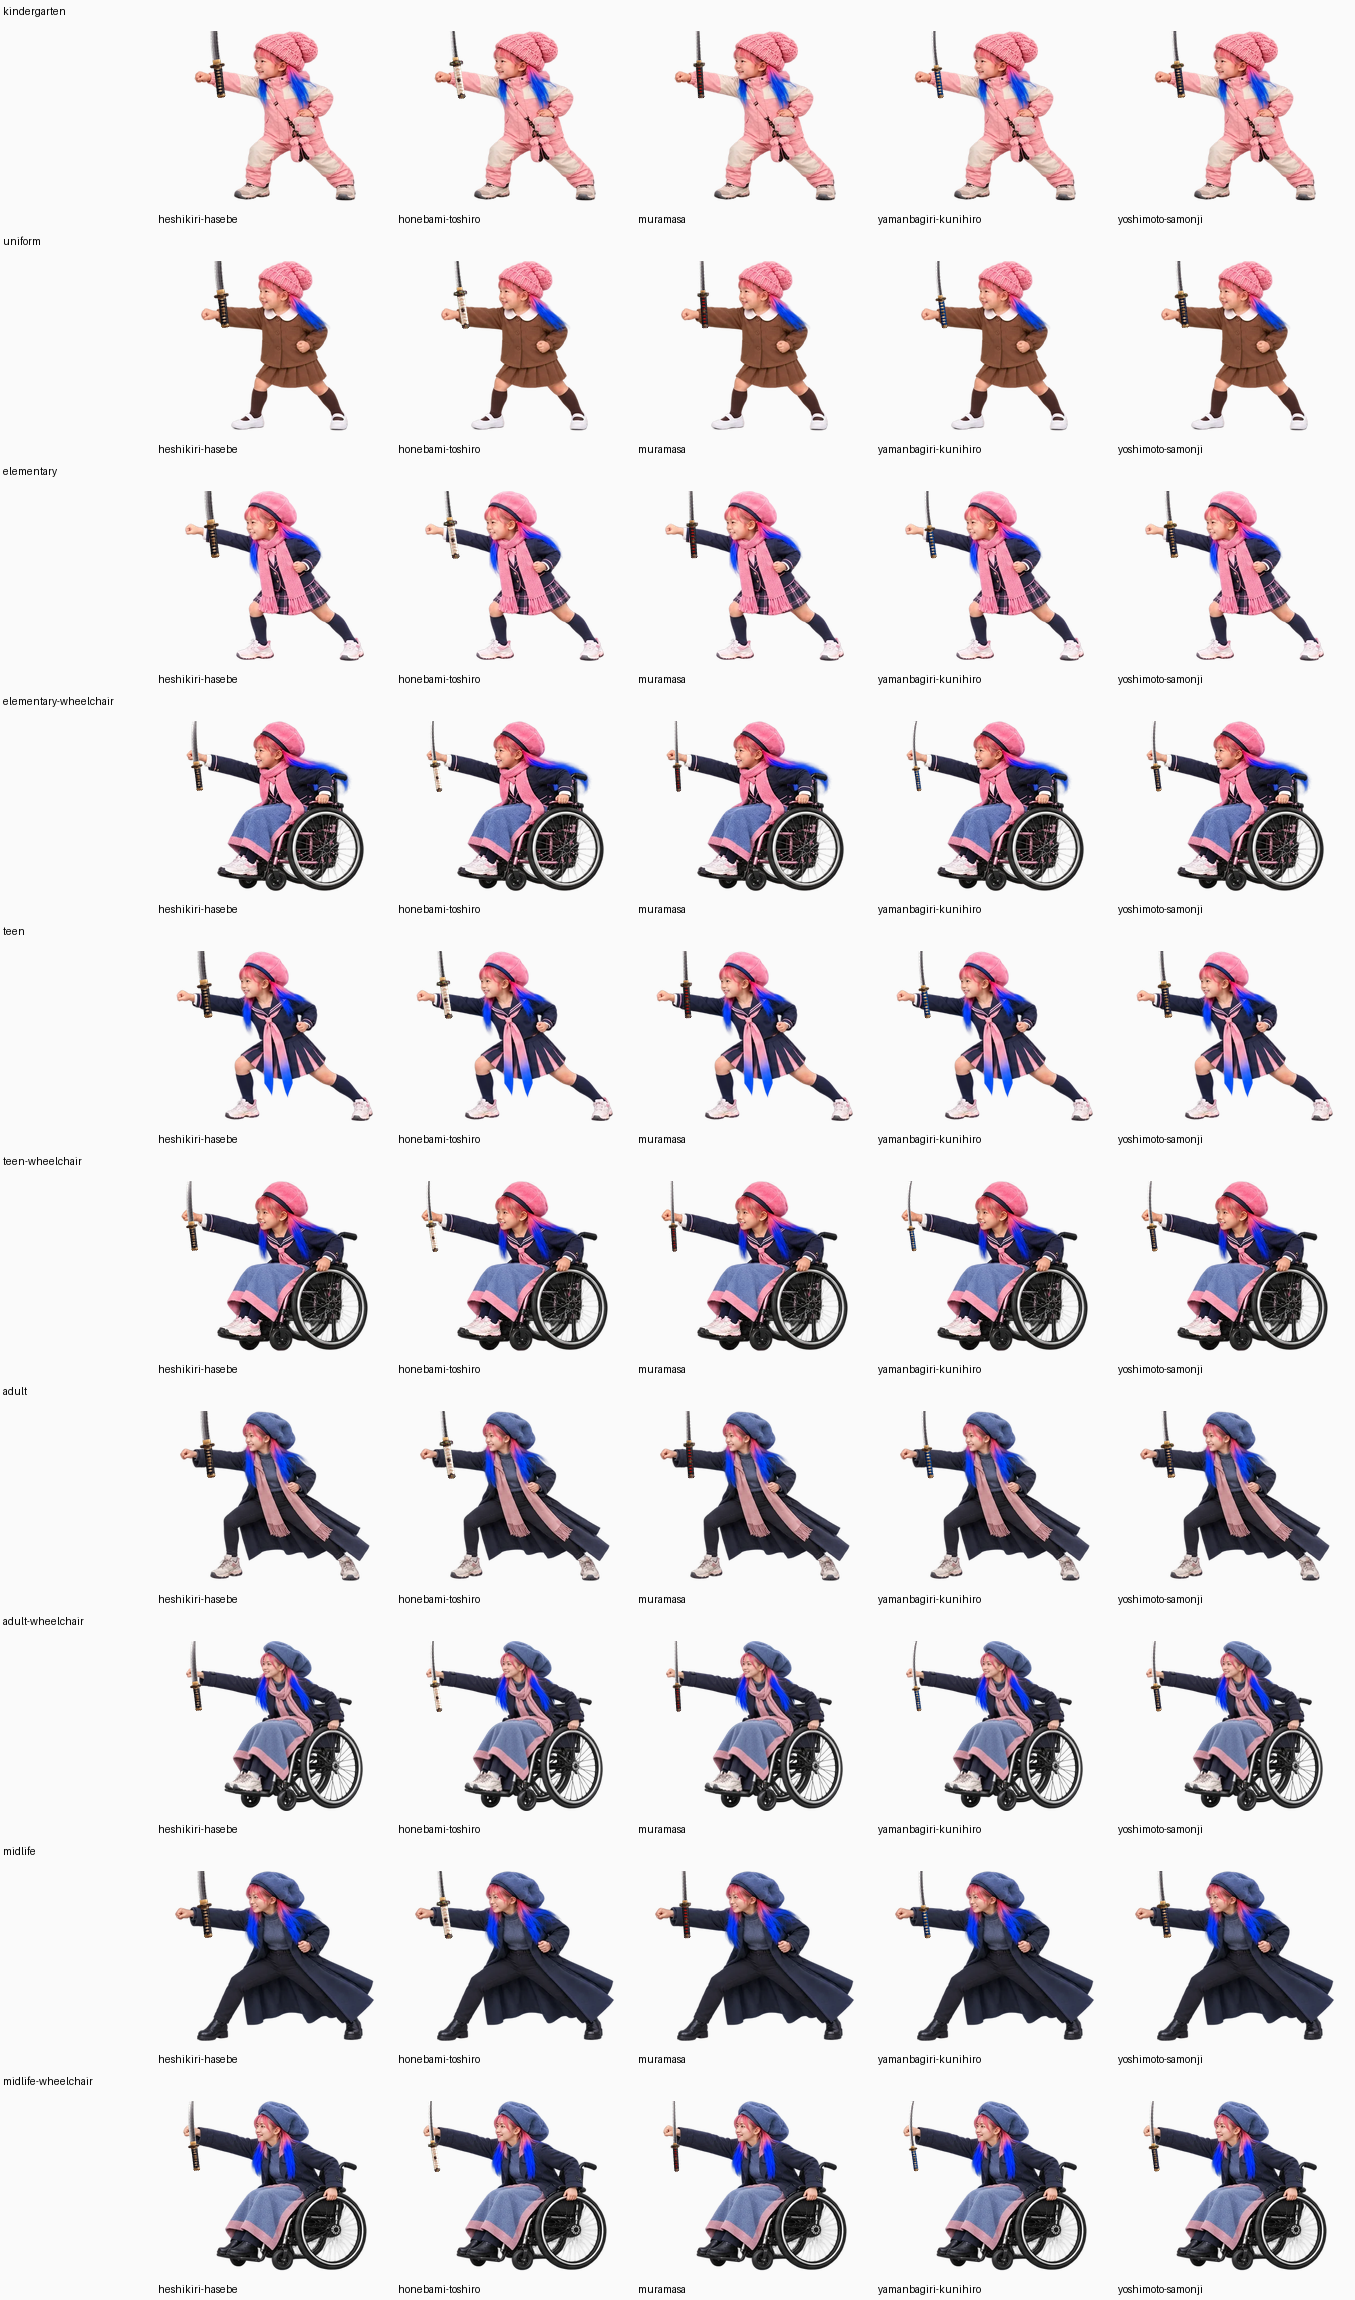
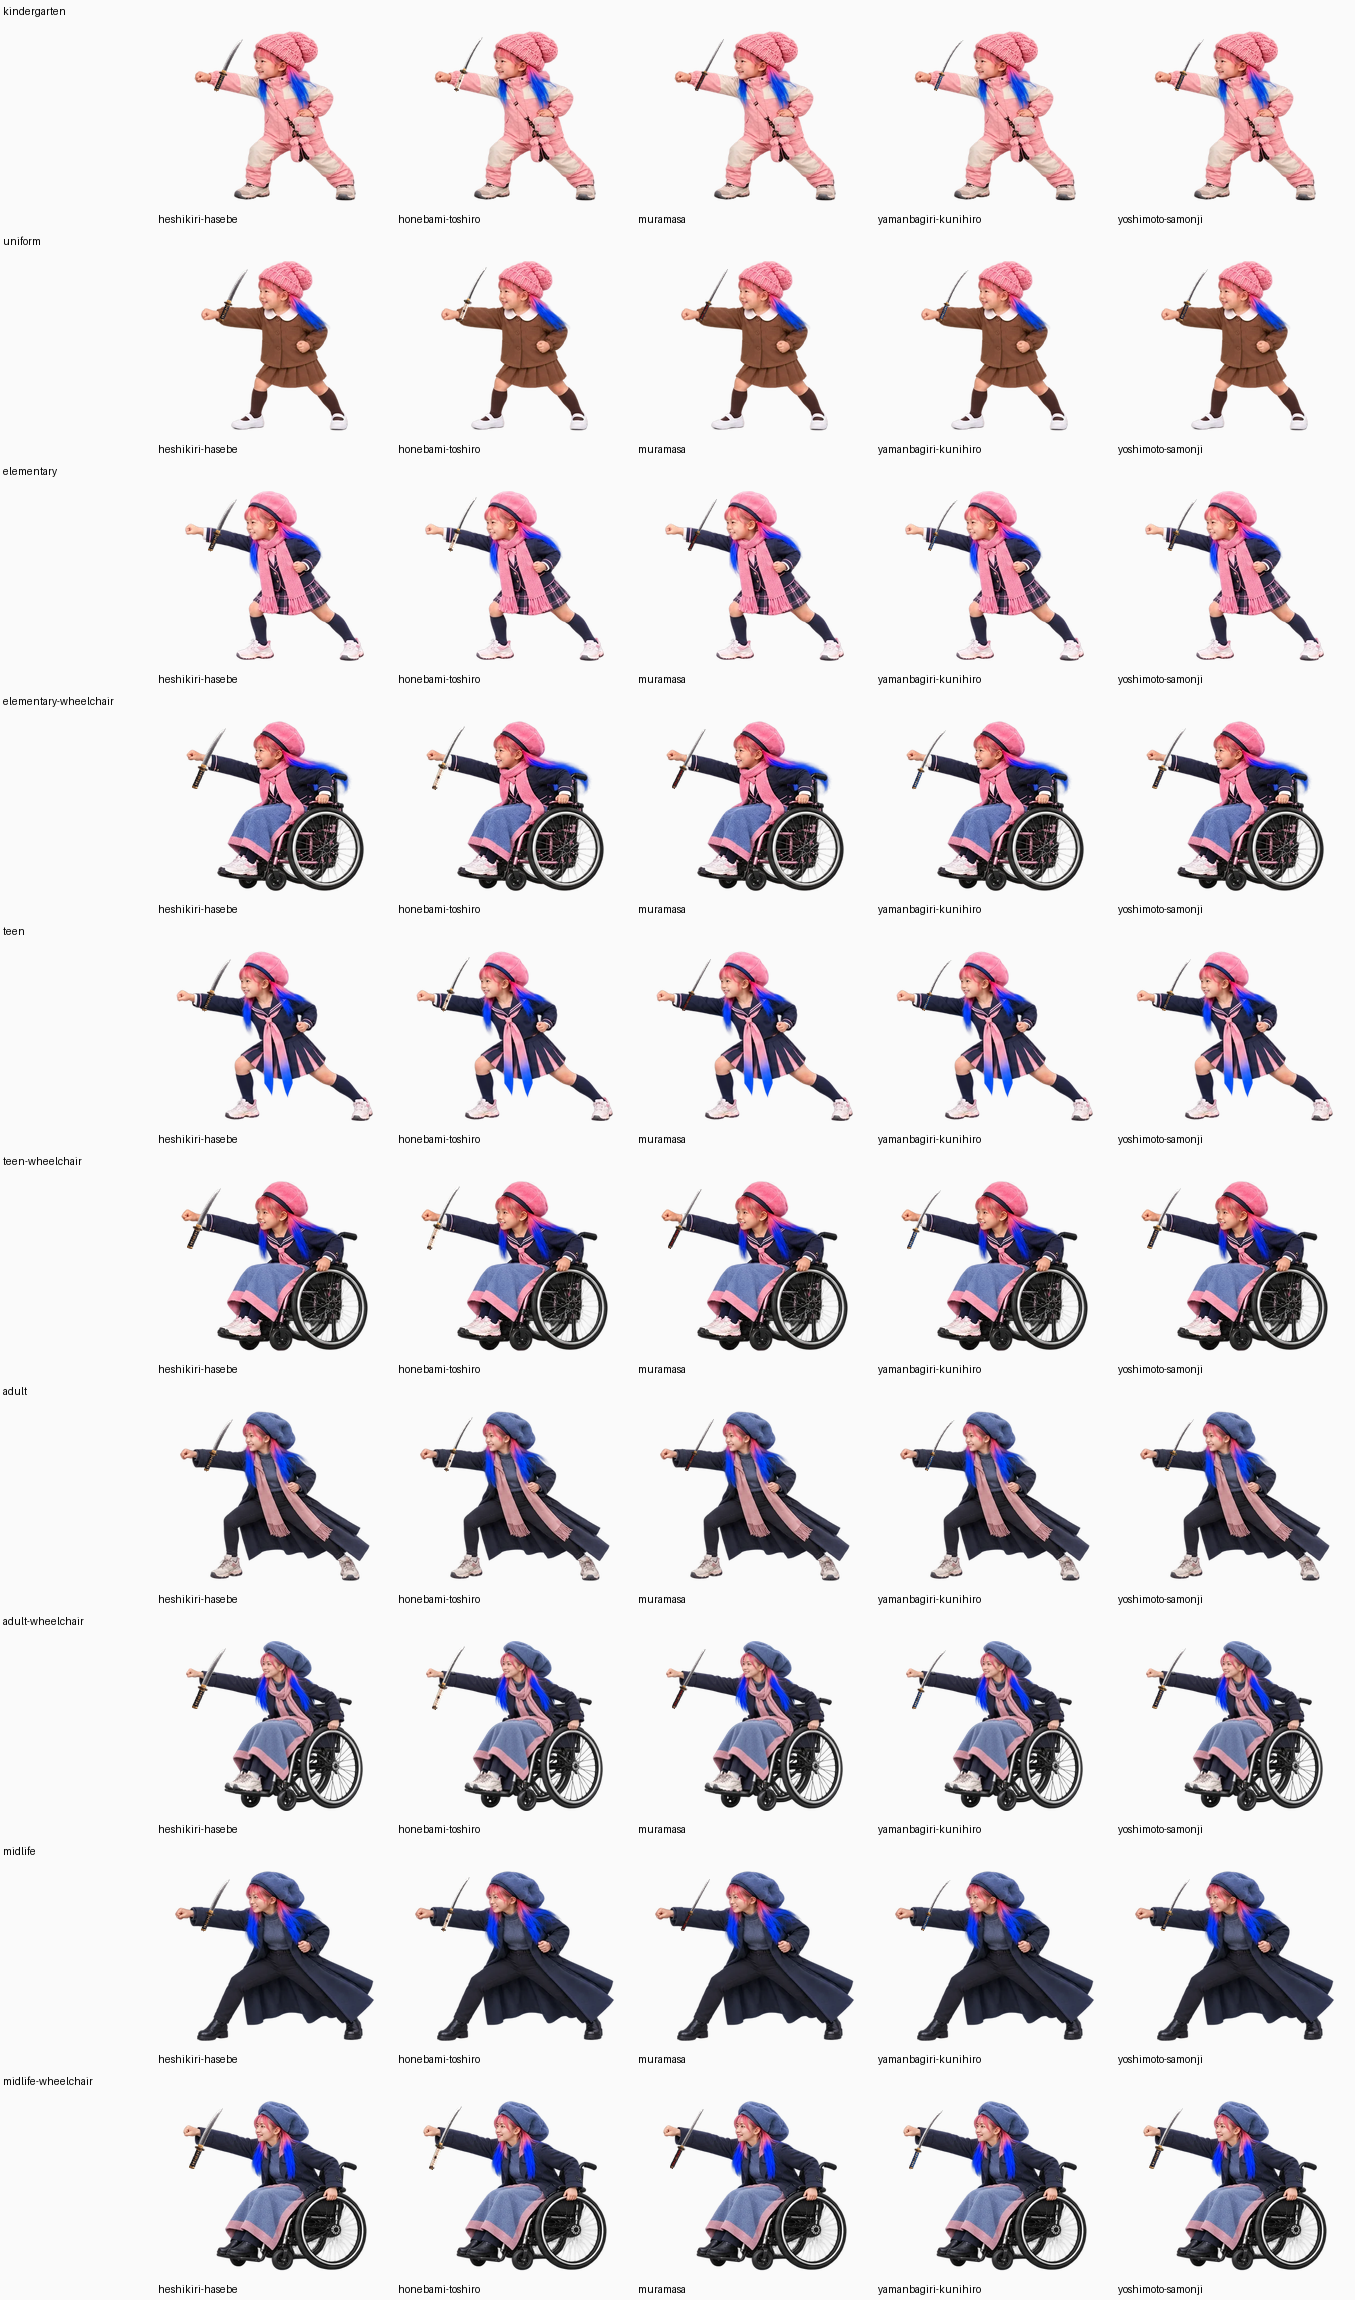
fix: keep Nam slash sword tips in frame

diff --git a/.claude/skills/sit-character-sprite/SKILL.md b/.claude/skills/sit-character-sprite/SKILL.md
@@ -79,7 +79,7 @@ Sit by Me の4人（と子供3人、不良など人物）の絵を、生成 → 
 - 3x3の各セルに全身を収め、隣の人物と重ねない。車椅子・帽子・手・小道具もセル境界を越えず、人物の間に透明な間隔を残す。収まらない場合は縦横比を保って人物全体を一様に縮小する。ゲーム内で縮小表示する素材では、各セルをぎりぎりまで埋めず、人物とポーズの識別を優先する（C001中学生車椅子の2026-10-26生成で、行境界の重なりが1コマ欠落と隣コマへの帽子混入を起こしたため）。
 - `key_grid.py` が `EMPTY` を返す、隣の人物の断片が切り出しへ入る、または手足・車輪がセル端で切れる場合は、その候補を手作業の境界切りで採用しない。原因をIssueへ記録し、セル内の余白を増やすpromptへ変えて再生成する。見えない微小ノイズと、ポーズやシルエットが損なわれる重なりは別の合否として扱う。
 - **刀・武器は人物と別レイヤーで再利用する（kako-jun 2026-10-26）**。同じ刀を年齢・衣装・車椅子ごとに描き直さず、刀ごとに共通画像を1枚作り、`ready / slash / special` など攻撃ポーズごとの大まかな位置・縮尺・角度を複数世代へ適用する。刀は人物の前面へ表示する。表示時間が短く、縮小されるため、指と柄の完全な接触や遮蔽は合否条件にせず、拳の近くに柄があり攻撃姿勢として読めるかを確認する。共通transformが立位と車椅子など異なるポーズ構造で明らかに崩れる場合だけ、構造別に少数の位置・縮尺transformへ分け、年齢ごとの武器画像を増やさない。位置合わせは透明余白を除いた人物の可視bboxを基準にし、立位・車椅子など拳の位置が構造的に異なる場合は位置transformだけ分ける。刀画像は同じものを使い、各構造から1セット以上を縮小合成して確認する（C001 2026-10-26: 小学生立位＋壮年車椅子の比較で構造別位置を確認）。
-- 刀を回転してから柄アンカーを置くときは、回転前の刀幅・高さでアンカー座標を算出し、回転後キャンバス内の座標へ変換してから人物へ合成する。回転後の幅・高さを回転前寸法の代わりに使ったり、回転後キャンバスの固定割合を柄位置とみなしたりしない。各刀候補×対象世代の白/暗色縮小一覧を作り、拳との近さ・刀身全体の画面内収まりを目で確認する（C002 2026-10-27: 共通 `.82,.82` の目安アンカーと誤った回転後位置計算、車椅子用の過小縮尺が、手とのずれ・刀身見切れを見逃す原因になった）。
+- 刀を回転してから柄アンカーを置くときは、回転前の刀幅・高さでアンカー座標を算出し、回転後キャンバス内の座標へ変換してから人物へ合成する。回転後の幅・高さを回転前寸法の代わりに使ったり、回転後キャンバスの固定割合を柄位置とみなしたりしない。各刀候補×対象世代の白/暗色縮小一覧を作り、拳との近さ・刀身全体の画面内収まりを目で確認する（C002 2026-10-27: 固定 `.82,.82` を回転後キャンバス上の点とみなした誤計算に加え、上端クリアランスを独立確認していなかったため刃先見切れを見逃した。回転前寸法から柄位置を変換し、全世代×全候補で上端を含む四辺の収まりを確認する）。
 - **全員の武器は刀（kako-jun 2026-10-26）**。戦闘キャラにリボンを武器として描かない。刀は人物と別レイヤーで重ね、人物の前面に表示する。軌跡は既定では作らない。明示的に必要になった場合だけ、刀の移動方向に沿う短く細い斬撃線・残像を刀と別レイヤーで作る。大きな弧・帯・リボン状や布状の曲線軌跡は作らない。刀の柄と拳は縮小状態で近くに見えればよく、厳密な接触や指の遮蔽は合否条件にしない。マフラーやネッカチーフは衣装として人物に接続した状態を保つ。
 - **刀の端切れを縮小合成で確認する（C001 2026-10-26）**。各刀候補の実際に見えるalpha領域を使い、立位・車椅子など必要な構造の全対象世代へ配置した一覧を作る。横へ長く伸びる斬撃では、先端だけでなく鍔・柄も含めた刀全体がゲーム画面のフレーム内に残るかを一覧と実使用サイズの両方で目視する。どれか一枚でも端から刃先が飛び出して見えなくなれば、その刀候補または該当構造のtransformを調整し、一覧を作り直す。まず刀を一様に縮小し、必要なら柄の基準位置を調整する。世代ごとに刀画像を増やすのは、共通刀と構造別transformで解決できない場合だけにする。境界からの固定px距離やalpha端接触を機械的な失格条件にせず、縮小した実表示で欠けて見えるかを判断する。実表示でも先端が判別でき、フレーム内に収まっていれば、過剰な余白を求めない。軌跡を使う場合は人物・刀から分け、刀の移動方向に沿った斬撃線として作る。
 - 武器レイヤーを使うゲームアニメーションでは、キー姿勢を先に確認し、後続工程で振り始め・振り抜きなど隣り合うポーズを補う中間ポーズを作って滑らかにつなぐ。最初から全組み合わせの画像を作らず、共通武器レイヤーと少数の姿勢・transformで成立するかを縮小表示で確かめる。

diff --git a/docs/assets-policy.md b/docs/assets-policy.md
@@ -57,7 +57,7 @@
 
 - 戦闘人物の刀は人物画像へ焼き込まず、候補刀ごとの共通画像を前面レイヤーとして合成する。軌跡は既定で作らない。
 - ポーズ構造（立位・車椅子）ごとの少数の位置・縮尺・角度を使い、世代ごとに刀画像を増やさない。縮小表示で柄が拳の近くにあり、刀身全体が読めることを白・暗色背景で一覧確認する。指の完全な握りや厳密な重なりは求めない。
-- 回転後の柄アンカーは、回転前の画像寸法から回転後キャンバス座標へ変換して求める。固定割合による近似だけに頼らず、候補刀×全対象世代の縮小合成で手元・刀身の見え方を確認する（C002 2026-10-27）。
+- 回転後の柄アンカーは、回転前の画像寸法から回転後キャンバス座標へ変換して求める。固定割合による近似だけに頼らず、候補刀×全対象世代の縮小合成で手元・刀身の見え方を確認し、刃先が四辺から見切れていないか確認する（C002 2026-10-27）。
 
 ### 年齢段階と衣装
 
